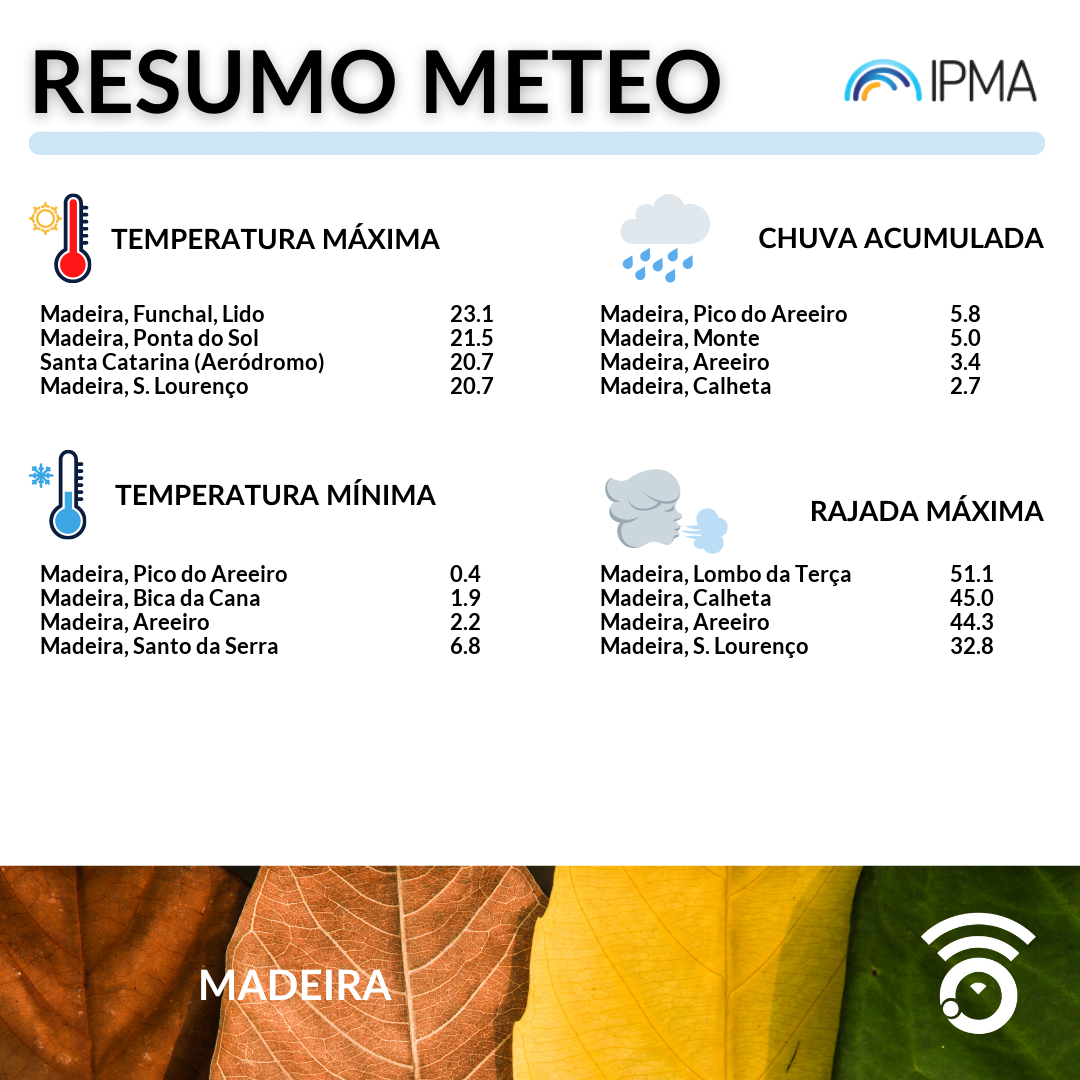
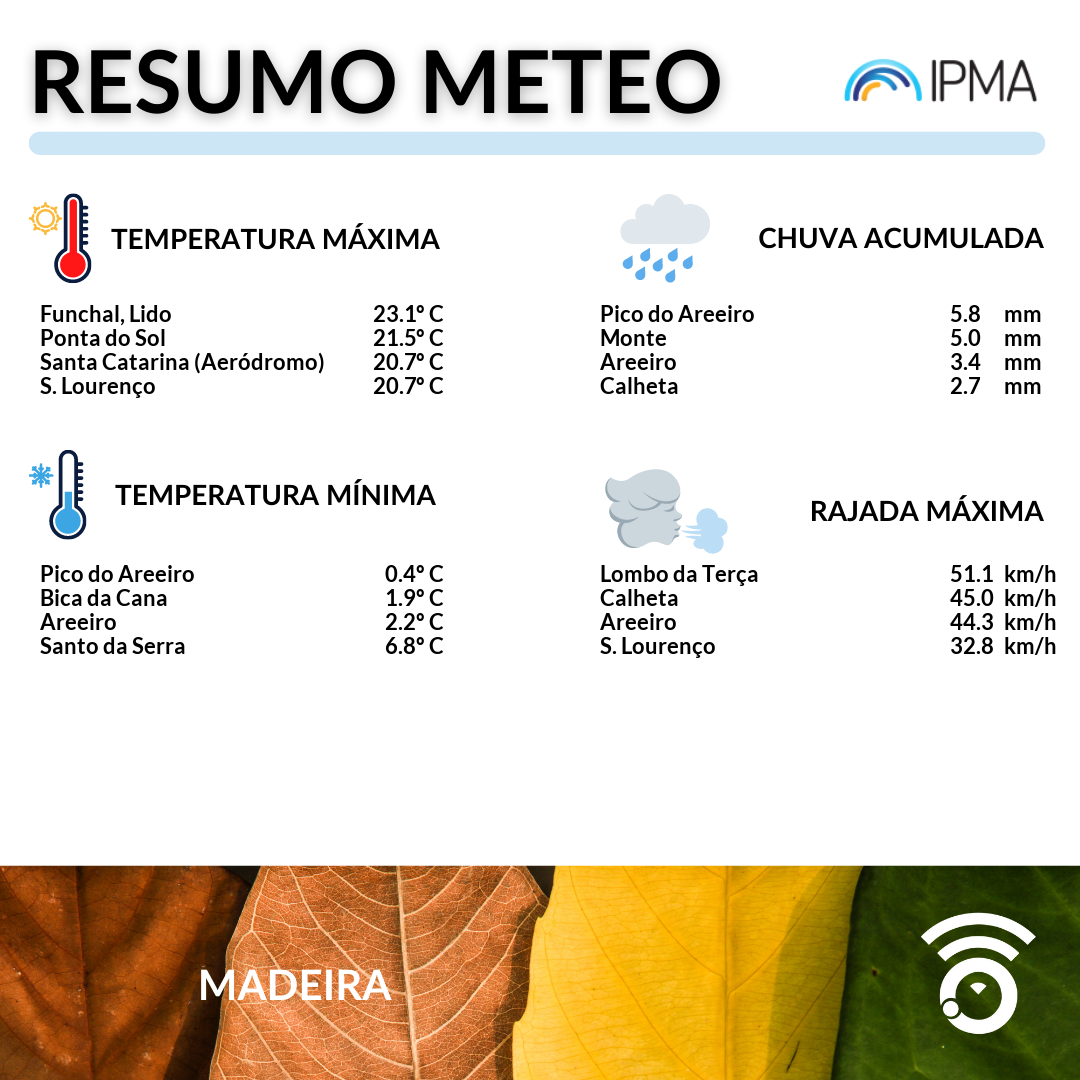
Daily Weather Report Major Update and Closes #3
This is a major update.
- Added Units in front of values
- Created variables for the position of station names, values, and units
- Stripped station names of acronyms and non relevant data
- Added report date to the final image

diff --git a/app.py b/app.py
@@ -57,6 +57,7 @@ ipma_data = ipma_data.sort_values(by=['date'])
 
 yesterday = datetime.now() - timedelta(1)
 yesterday_date = datetime.strftime(yesterday, '%Y-%m-%d')
+report_date = str(yesterday_date)
 
 # Create new datafraeme with only yesterday's results
 
@@ -157,11 +158,38 @@ template_mad = Image.open("resumo_meteo_template_mad.png")
 # Font file needs to be in the same folder
 title_font = ImageFont.truetype('Lato-Bold.ttf', 24)
 subtitle_font = ImageFont.truetype('Lato-Bold.ttf', 22)
+date_font = ImageFont.truetype('Lato-Bold.ttf', 72)
 
 # Create copies of the images that can be edited
 image_editable_pt = ImageDraw.Draw(template_pt)
 image_editable_az = ImageDraw.Draw(template_az)
 image_editable_mad = ImageDraw.Draw(template_mad)
+
+# Create Units strings 
+temp_unit = "º C"
+rain_unit = " mm"
+wind_unit = " km/h"
+
+# Create vars for coordinates
+
+max_temp_station_y = 40
+max_temp_y = 373.7607
+max_temp_unit_y = 416
+
+min_temp_station_y = 40
+min_temp_y = 385.9927
+min_temp_unit_y = 416
+
+max_wind_station_y = 600
+max_wind_y = 950
+max_wind_unit_y = 1000.0576
+
+max_rain_station_y = 600
+max_rain_y = 950
+max_rain_unit_y = 1000.0576
+
+
+
 
 # ------------------------------
 #     PORTUGAL CONTINENTAL
@@ -174,9 +202,12 @@ start_coord = 300
 for x in range(4):
     name = getStationNameById(four_temp_max_pt.iloc[x].stationId)
     station_name = name.location.values[0]
+    # Strip station names 
+    station_name_final = station_name.replace("(CIM)", "").strip()
     station_temp = str(four_temp_max_pt.iloc[x].temp_max)
-    image_editable_pt.text((40,start_coord), station_name, (0, 0, 0), font=subtitle_font)
-    image_editable_pt.text((450,start_coord), station_temp, (0, 0, 0), font=subtitle_font)
+    image_editable_pt.text((max_temp_station_y,start_coord), station_name_final, (0, 0, 0), font=subtitle_font)
+    image_editable_pt.text((max_temp_y,start_coord), station_temp, (0, 0, 0), font=subtitle_font)
+    image_editable_pt.text((max_temp_unit_y,start_coord), temp_unit, (0, 0, 0), font=subtitle_font)
 
     # Increase y coordinates by 24px 
     start_coord += 24
@@ -189,9 +220,12 @@ start_coord = 560
 for x in range(4):
     name = getStationNameById(four_temp_min_pt.iloc[x].stationId)
     station_name = name.location.values[0]
+    # Strip station names 
+    station_name_final = station_name.replace("(CIM)", "").strip()
     station_temp = str(four_temp_min_pt.iloc[x].temp_min)
-    image_editable_pt.text((40,start_coord), station_name, (0, 0, 0), font=subtitle_font)
-    image_editable_pt.text((450,start_coord), station_temp, (0, 0, 0), font=subtitle_font)
+    image_editable_pt.text((min_temp_station_y,start_coord), station_name_final, (0, 0, 0), font=subtitle_font)
+    image_editable_pt.text((min_temp_y,start_coord), station_temp, (0, 0, 0), font=subtitle_font)
+    image_editable_pt.text((min_temp_unit_y,start_coord), temp_unit, (0, 0, 0), font=subtitle_font)
 
     # Increase y coordinates by 24px 
     start_coord += 24
@@ -203,9 +237,12 @@ start_coord = 560
 for x in range(4):
     name = getStationNameById(four_wind_max_pt.iloc[x].stationId)
     station_name = name.location.values[0]
+    # Strip station names 
+    station_name_final = station_name.replace("(CIM)", "").strip()
     station_temp = str(four_wind_max_pt.iloc[x].vento_int_max_inst)
-    image_editable_pt.text((600,start_coord), station_name, (0, 0, 0), font=subtitle_font)
-    image_editable_pt.text((950,start_coord), station_temp, (0, 0, 0), font=subtitle_font)
+    image_editable_pt.text((max_wind_station_y,start_coord), station_name_final, (0, 0, 0), font=subtitle_font)
+    image_editable_pt.text((max_wind_y,start_coord), station_temp, (0, 0, 0), font=subtitle_font)
+    image_editable_pt.text((max_wind_unit_y,start_coord), wind_unit, (0,0,0),font=subtitle_font)
 
     # Increase y coordinates by 24px 
     start_coord += 24
@@ -217,9 +254,12 @@ start_coord = 300
 for x in range(4):
     name = getStationNameById(four_rain_accu_pt.iloc[x].stationId)
     station_name = name.location.values[0]
+    # Strip station names 
+    station_name_final = station_name.replace("(CIM)", "").strip()
     station_temp = str(four_rain_accu_pt.iloc[x].prec_quant)
-    image_editable_pt.text((600,start_coord), station_name, (0, 0, 0), font=subtitle_font)
-    image_editable_pt.text((950,start_coord), station_temp, (0, 0, 0), font=subtitle_font)
+    image_editable_pt.text((max_rain_station_y,start_coord), station_name_final, (0, 0, 0), font=subtitle_font)
+    image_editable_pt.text((max_rain_y,start_coord), station_temp, (0, 0, 0), font=subtitle_font)
+    image_editable_pt.text((max_rain_unit_y,start_coord), rain_unit, (0,0,0),font=subtitle_font)
 
     # Increase y coordinates by 24px 
     start_coord += 24
@@ -235,9 +275,12 @@ start_coord = 300
 for x in range(4):
     name = getStationNameById(four_temp_max_az.iloc[x].stationId)
     station_name = name.location.values[0]
+    # Strip station names 
+    station_name_final = station_name.replace("(DROTRH)", "").strip()
     station_temp = str(four_temp_max_az.iloc[x].temp_max)
-    image_editable_az.text((40,start_coord), station_name, (0, 0, 0), font=subtitle_font)
-    image_editable_az.text((450,start_coord), station_temp, (0, 0, 0), font=subtitle_font)
+    image_editable_az.text((max_temp_station_y,start_coord), station_name_final, (0, 0, 0), font=subtitle_font)
+    image_editable_az.text((max_temp_y,start_coord), station_temp, (0, 0, 0), font=subtitle_font)
+    image_editable_az.text((max_temp_unit_y,start_coord), temp_unit, (0, 0, 0), font=subtitle_font)
 
     # Increase y coordinates by 24px 
     start_coord += 24
@@ -250,9 +293,12 @@ start_coord = 560
 for x in range(4):
     name = getStationNameById(four_temp_min_az.iloc[x].stationId)
     station_name = name.location.values[0]
+    # Strip station names 
+    station_name_final = station_name.replace("(DROTRH)", "").strip()
     station_temp = str(four_temp_min_az.iloc[x].temp_min)
-    image_editable_az.text((40,start_coord), station_name, (0, 0, 0), font=subtitle_font)
-    image_editable_az.text((450,start_coord), station_temp, (0, 0, 0), font=subtitle_font)
+    image_editable_az.text((min_temp_station_y,start_coord), station_name_final, (0, 0, 0), font=subtitle_font)
+    image_editable_az.text((min_temp_y,start_coord), station_temp, (0, 0, 0), font=subtitle_font)
+    image_editable_az.text((min_temp_unit_y,start_coord), temp_unit, (0, 0, 0), font=subtitle_font)
 
     # Increase y coordinates by 24px 
     start_coord += 24
@@ -264,9 +310,12 @@ start_coord = 560
 for x in range(4):
     name = getStationNameById(four_wind_max_az.iloc[x].stationId)
     station_name = name.location.values[0]
+    # Strip station names 
+    station_name_final = station_name.replace("(DROTRH)", "").strip()
     station_temp = str(four_wind_max_az.iloc[x].vento_int_max_inst)
-    image_editable_az.text((600,start_coord), station_name, (0, 0, 0), font=subtitle_font)
-    image_editable_az.text((950,start_coord), station_temp, (0, 0, 0), font=subtitle_font)
+    image_editable_az.text((max_wind_station_y,start_coord), station_name_final, (0, 0, 0), font=subtitle_font)
+    image_editable_az.text((max_wind_y,start_coord), station_temp, (0, 0, 0), font=subtitle_font)
+    image_editable_az.text((max_wind_unit_y,start_coord), wind_unit, (0,0,0),font=subtitle_font)
 
     # Increase y coordinates by 24px 
     start_coord += 24
@@ -278,9 +327,12 @@ start_coord = 300
 for x in range(4):
     name = getStationNameById(four_rain_accu_az.iloc[x].stationId)
     station_name = name.location.values[0]
+    # Strip station names 
+    station_name_final = station_name.replace("(DROTRH)", "").strip()
     station_temp = str(four_rain_accu_az.iloc[x].prec_quant)
-    image_editable_az.text((600,start_coord), station_name, (0, 0, 0), font=subtitle_font)
-    image_editable_az.text((950,start_coord), station_temp, (0, 0, 0), font=subtitle_font)
+    image_editable_az.text((max_rain_station_y,start_coord), station_name_final, (0, 0, 0), font=subtitle_font)
+    image_editable_az.text((max_rain_y,start_coord), station_temp, (0, 0, 0), font=subtitle_font)
+    image_editable_az.text((max_rain_unit_y,start_coord), rain_unit, (0,0,0),font=subtitle_font)
 
     # Increase y coordinates by 24px 
     start_coord += 24
@@ -297,9 +349,14 @@ start_coord = 300
 for x in range(4):
     name = getStationNameById(four_temp_max_mad.iloc[x].stationId)
     station_name = name.location.values[0]
+    # Strip station names 
+    station_name_final = station_name.replace("Madeira,", "").strip()
     station_temp = str(four_temp_max_mad.iloc[x].temp_max)
-    image_editable_mad.text((40,start_coord), station_name, (0, 0, 0), font=subtitle_font)
-    image_editable_mad.text((450,start_coord), station_temp, (0, 0, 0), font=subtitle_font)
+    image_editable_mad.text((max_temp_station_y,start_coord), station_name_final, (0, 0, 0), font=subtitle_font)
+    image_editable_mad.text((max_temp_y,start_coord), station_temp, (0, 0, 0), font=subtitle_font)
+    image_editable_mad.text((max_temp_unit_y,start_coord), temp_unit, (0, 0, 0), font=subtitle_font)
+
+    # Increase y coordinates by 24px 
 
     # Increase y coordinates by 24px 
     start_coord += 24
@@ -312,9 +369,13 @@ start_coord = 560
 for x in range(4):
     name = getStationNameById(four_temp_min_mad.iloc[x].stationId)
     station_name = name.location.values[0]
+    # Strip station names 
+    station_name_final = station_name.replace("Madeira,", "").strip()
     station_temp = str(four_temp_min_mad.iloc[x].temp_min)
-    image_editable_mad.text((40,start_coord), station_name, (0, 0, 0), font=subtitle_font)
-    image_editable_mad.text((450,start_coord), station_temp, (0, 0, 0), font=subtitle_font)
+    image_editable_mad.text((min_temp_station_y,start_coord), station_name_final, (0, 0, 0), font=subtitle_font)
+    image_editable_mad.text((min_temp_y,start_coord), station_temp, (0, 0, 0), font=subtitle_font)
+    image_editable_mad.text((min_temp_unit_y,start_coord), temp_unit, (0, 0, 0), font=subtitle_font)
+
 
     # Increase y coordinates by 24px 
     start_coord += 24
@@ -326,9 +387,12 @@ start_coord = 560
 for x in range(4):
     name = getStationNameById(four_wind_max_mad.iloc[x].stationId)
     station_name = name.location.values[0]
+    # Strip station names 
+    station_name_final = station_name.replace("Madeira,", "").strip()
     station_temp = str(four_wind_max_mad.iloc[x].vento_int_max_inst)
-    image_editable_mad.text((600,start_coord), station_name, (0, 0, 0), font=subtitle_font)
-    image_editable_mad.text((950,start_coord), station_temp, (0, 0, 0), font=subtitle_font)
+    image_editable_mad.text((max_wind_station_y,start_coord), station_name_final, (0, 0, 0), font=subtitle_font)
+    image_editable_mad.text((max_wind_y,start_coord), station_temp, (0, 0, 0), font=subtitle_font)
+    image_editable_mad.text((max_wind_unit_y,start_coord), wind_unit, (0,0,0),font=subtitle_font)
 
     # Increase y coordinates by 24px 
     start_coord += 24
@@ -340,12 +404,24 @@ start_coord = 300
 for x in range(4):
     name = getStationNameById(four_rain_accu_mad.iloc[x].stationId)
     station_name = name.location.values[0]
+    # Strip station names 
+    station_name_final = station_name.replace("Madeira,", "").strip()
     station_temp = str(four_rain_accu_mad.iloc[x].prec_quant)
-    image_editable_mad.text((600,start_coord), station_name, (0, 0, 0), font=subtitle_font)
-    image_editable_mad.text((950,start_coord), station_temp, (0, 0, 0), font=subtitle_font)
+    image_editable_mad.text((max_rain_station_y,start_coord), station_name_final, (0, 0, 0), font=subtitle_font)
+    image_editable_mad.text((max_rain_y,start_coord), station_temp, (0, 0, 0), font=subtitle_font)
+    image_editable_mad.text((max_rain_unit_y,start_coord), rain_unit, (0,0,0),font=subtitle_font)
 
     # Increase y coordinates by 24px 
     start_coord += 24
+
+
+#---------------------------------
+#      INSERT DATE AND UNITS
+#---------------------------------
+
+image_editable_pt.text((348.8804,739.9473), report_date, (193, 193, 193), font=date_font)
+image_editable_az.text((348.8804,739.9473), report_date, (193, 193, 193), font=date_font)
+image_editable_mad.text((348.8804,739.9473), report_date, (193, 193, 193), font=date_font)
 
 
 #---------------------------------
